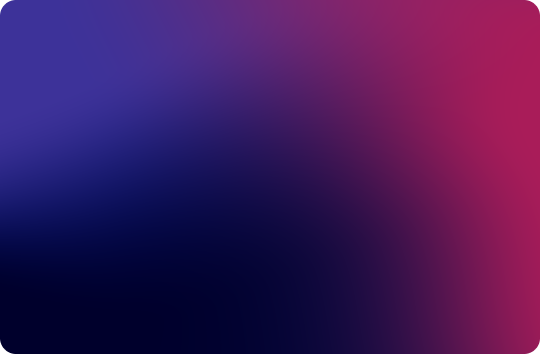
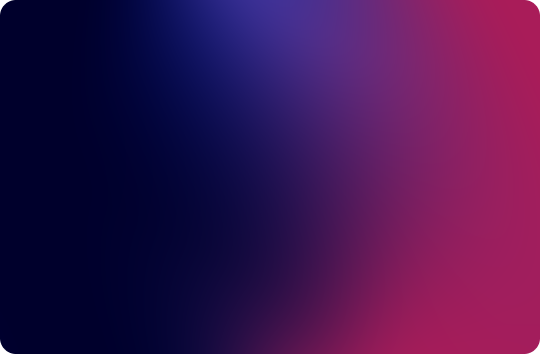
finish solutions

diff --git a/website/layouts/partials/solution/comparison-solutionpage.html b/website/layouts/partials/solution/comparison-solutionpage.html
@@ -1,0 +1,71 @@
+{{- $section_comparison := .Params.solutionComparison -}}
+{{- $sectionTitle := index $section_comparison "section-title" | default "" -}}
+{{- $title := index $section_comparison "title" | default "" -}}
+{{- $subtitle := index $section_comparison "subtitle" | default "" -}}
+{{- $comparison := index $section_comparison "comparison" | default (slice) -}}
+
+<section class="section section-comparison section-white section-solutions is-medium">
+  <div class="container has-text-centered">
+    <div class="columns is-centered is-vcentered">
+      <div class="column is-8">
+        {{- if $sectionTitle }}
+          <h3 class="section-name is-5">{{ $sectionTitle | markdownify }}</h3>
+        {{- end }}
+        {{- if $title }}
+          <h1 class="section-title is-spaced">{{ $title }}</h1>
+        {{- end }}
+        {{- if $subtitle }}
+          <h3 class="section-subtitle">{{ $subtitle }}</h3>
+        {{- end }}
+      </div>
+    </div>
+  </div>
+
+  <div class="container mt-6">
+    <div class="columns is-multiline is-flex-wrap-wrap is-justify-content-center">
+      {{- range $i, $comparisonItem := $comparison}}
+        {{- $cardType := index $comparisonItem "cardType" | default "" -}}
+        {{- $name := index $comparisonItem "name" | default "" -}}
+        {{- $title := index $comparisonItem "title" | default "" -}}
+        {{- $category := index $comparisonItem "category" | default "" -}}
+        {{- $image := index $comparisonItem "image" | default "" -}}
+        {{- $ctaText := index $comparisonItem "ctaText" | default "" -}}
+        {{- $ctaLink := index $comparisonItem "ctaLink" | default "" -}}
+        {{- $cssClass := index $comparisonItem "cssClass" | default "" -}}
+      <div class="column is-one-third is-flex">
+          <div class="card {{ $cssClass }} is-flex is-flex-direction-column is-flex-grow-1 is-full-height p-0">
+            <div class="card-content is-flex-grow-1">
+              <div class="name"><img src="{{ $image }}" style="height:80px;width:auto;margin:20px"></div>
+              <h1>{{ $name }}</h1>
+              <div class="category">{{ $category }}</div>
+
+              {{- range $i, $feature := $comparisonItem.features }}
+                <div class="feature">
+                  <i class="fas fa-check"></i>
+                  <div>
+                    {{ $feature | markdownify }}
+                  </div>
+                </div>
+              {{- end }}
+
+              <div class="mt-6 mb-5">
+
+                {{- range $i, $cta := $comparisonItem.ctas }}
+                  <a href="{{ $cta.link }}">
+                    <span class="button contact-button rounded {{ $cta.class }} raised mt-3" style="width:100%">
+                      {{ $cta.text }}
+                      <span class="icon ml-2">
+                        <i class="fas fa-arrow-right"></i>
+                      </span>
+                    </span>
+                  </a>
+                {{- end }}
+
+              </div>
+            </div>
+          </div>
+        </div>
+        {{- end }}
+    </div>
+  </div>
+</section>

diff --git a/website/assets/smart/partials/_cards.scss b/website/assets/smart/partials/_cards.scss
@@ -62,12 +62,6 @@
       line-height: 1.5;
     }
 
-    .card-content.alternate-card-content:nth-child(even) {
-      .columns {
-        flex-direction: row-reverse;
-      }
-    }
-
     &.pipedriveWebForms {
       background: linear-gradient(-30deg, $card-color-start 0%, #151515 30%, #151515 70%, $card-color-end 100%);
       color: white;
@@ -88,7 +82,7 @@
         color: $royal-blue;
       }
       .subtitle {
-        color: rgba(#1a1449, 0.6);
+        color: rgba($midnight-blue, 0.6);
       }
     }
 
@@ -260,5 +254,12 @@
     .title {
       color: rgba(255, 255, 255, 0.6);
     }
+  }
+}
+
+
+.card:nth-child(even) .card-content.alternate-card-content {
+  .columns {
+    flex-direction: row-reverse !important;
   }
 }

diff --git a/website/assets/smart/partials/_pricing.scss b/website/assets/smart/partials/_pricing.scss
@@ -1,4 +1,4 @@
-.section-pricing {
+.section-pricing, .section-comparison {
     .name {
         background: linear-gradient(155deg, $hibiscus, $dark-purple);
         color: white;
@@ -8,6 +8,21 @@
         font-weight: 600;
         font-size: 170%;
         margin-bottom: 24px;
+    }
+
+    h1 {
+        font-size: 1.4rem;
+        font-weight: 600;
+        text-align: center;
+    }
+
+    .category {
+        font-weight: 600;
+        text-align: center;
+        background: rgba($midnight-blue, 0.1);
+        border-radius: 15px;
+        padding: 1em;
+        margin: 3em 0;
     }
 
     .price {

diff --git a/website/assets/smart/partials/_buttons.scss b/website/assets/smart/partials/_buttons.scss
@@ -100,8 +100,10 @@ Classes to change the feel of bulma buttons
     }
 }
 
-.early-access-in-section, .section-grey {
+.early-access-in-section, .section-comparison, .section-grey {
+
     .button {
+        font-weight: 400;
         background: $hibiscus;
         color: white;
         border:0;
@@ -109,5 +111,11 @@ Classes to change the feel of bulma buttons
         &:hover {
             color: lightgrey;
         }
+    }
+
+    .secondary-btn {
+        background: none;
+        color: $hibiscus;
+        border: 1px solid $hibiscus;
     }
 }

diff --git a/website/assets/smart/partials/_colors.scss b/website/assets/smart/partials/_colors.scss
@@ -17,6 +17,7 @@ $hibiscus: #A81A57;
 $light-blue-grey: #98a9c3;
 $light-grey: #EFF4F7;
 $medium-grey: #66676b;
+$midnight-blue: #1A1449;
 $mint: #11FFBD;
 $muted-grey: #999;
 $pinky: #ff00cc;
@@ -24,8 +25,8 @@ $placeholder: #cecece;
 $purple: #7F00FF;
 $royal-blue: #191349;
 $section-grey: #fbfbfb;
-$success-green: #1AA769;
 $smoke-white: #fcfcfc;
+$success-green: #1AA769;
 $title-grey: #A9ABAC;
 $white: #fff;
 

diff --git a/website/layouts/_default/solution-list.html b/website/layouts/_default/solution-list.html
@@ -8,6 +8,10 @@
     {{ partial "solution/solutions-solutionpage.html" . }}
   {{ end }}
 
+  {{ if .Params.solutionComparison }}
+    {{ partial "solution/comparison-solutionpage.html" . }}
+  {{ end }}
+
   {{ partial "section_cta.html" . }}
 
   {{ partial "footer.html" . }}

diff --git a/website/content/solution/_index.md b/website/content/solution/_index.md
@@ -47,7 +47,54 @@ solutionDetails:
       title: "Schützen Sie Ihre KI-Infrastruktur"
       description: "Plattform für Analyse, Härtung & Auditierung von Large Language Models, Agenten & APIs – inkl. Prompt Injection Detection und Red Teaming."
       image: "/images/illustrations/icons/llm-security.svg"
-      background: "/solution/product_background_1.png"
+      background: "/solution/product_background_3.png"
       cta-text: "LLM Security Platform entdecken"
       cta-link: "/#"
+solutionComparison:
+  section-title: "Vergleich"
+  title: "Welche Lösung passt zu Ihnen?"
+  comparison:
+    - name: "Smart Fingerprint"
+      image: "/images/illustrations/icons/fingerprint.svg"
+      category: "Kontinuierliche Authentifizierung"
+      features:
+      - "Kein Upload"
+      - "Keine Templates"
+      - "DSGVO-konform"
+      ctas:
+      - text: "Demo vereinbaren"
+        link: "/#"
+        class: "primary-btn"
+      - text: "Datasheet anfordern"
+        link: "/#"
+        class: "secondary-btn"
+    - name: "Smart Dragon"
+      image: "/images/illustrations/icons/smart-dragon.svg"
+      category: "Unternehmens-Chatbot"
+      features:
+      - "Kein Prompt-Leakage"
+      - "konsistentes Logging"
+      - "Legal & Support"
+      ctas:
+      - text: "Demo vereinbaren"
+        link: "/#"
+        class: "primary-btn"
+      - text: "Datasheet anfordern"
+        link: "/#"
+        class: "secondary-btn"
+    - name: "LLM Security Platform"
+      image: "/images/illustrations/icons/llm-security.svg"
+      category: "Plattform-Absicherung"
+      features:
+      - "LLM-Auditing"
+      - "Agent-Absicherung"
+      - "Prompt-Analyse"
+      ctas:
+      - text: "Demo vereinbaren"
+        link: "/#"
+        class: "primary-btn"
+      - text: "Datasheet anfordern"
+        link: "/#"
+        class: "secondary-btn"
+
 ---
